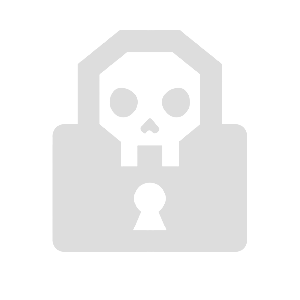
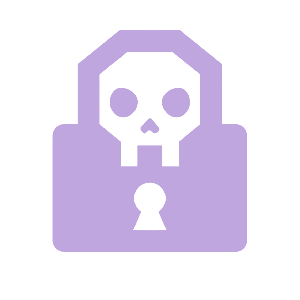
looking into rsvp link error

diff --git a/halloween.html b/halloween.html
@@ -18,7 +18,7 @@
     <div class="background">
         <div class="gates">
             <img src="assets/images/halloween/left-gate.png" alt="Left Gate" class="gate left-gate">
-            <img src="assets/images/halloween/right-gate.png" alt="Right Gate" class="gate right-gate">
+            <img src="assets/images/halloween/left-gate.png" alt="Right Gate" class="gate right-gate">
             <img src="assets/images/halloween/lock.png" alt="Lock" class="lock" id="lock">
         </div>
         <div class="message" id="message">
@@ -41,7 +41,10 @@
             <br>
             <br>
             <br>
-            <span class="part rsvp" id="part8"><a href="james-carey.com/rsvp">rsvp here</a><br><br>requested, but not required</span>
+            <a href="james-carey.com/rsvp"><span class="part rsvp" id="part8">rsvp here</span></a>
+            <br>
+            <br>
+            <span class="part rsvp" id="part9">requested, but not required</span>
         </div>
         <audio id="background-music" src="assets/audio/halloween.wav" preload="auto"></audio>
     </div>

diff --git a/assets/css/halloween.css b/assets/css/halloween.css
@@ -46,6 +46,7 @@ body, html {
 .right-gate {
     right: 0;
     transform: translateX(0);
+    transform: rotateY(180deg);
 }
 
 .lock {
@@ -73,7 +74,7 @@ body, html {
     font-family: "Allura", cursive;
     font-weight: 400;
     font-style: normal;
-    color: var(--color-mystery);
+    color: #c0a6df;
     font-size: 3rem;
 }
 
@@ -91,4 +92,8 @@ body, html {
     font-style: normal;
     color: var(--color-offwhite);
     font-size: 1rem;
+}
+
+.rsvp{
+    z-index: 666;
 }
